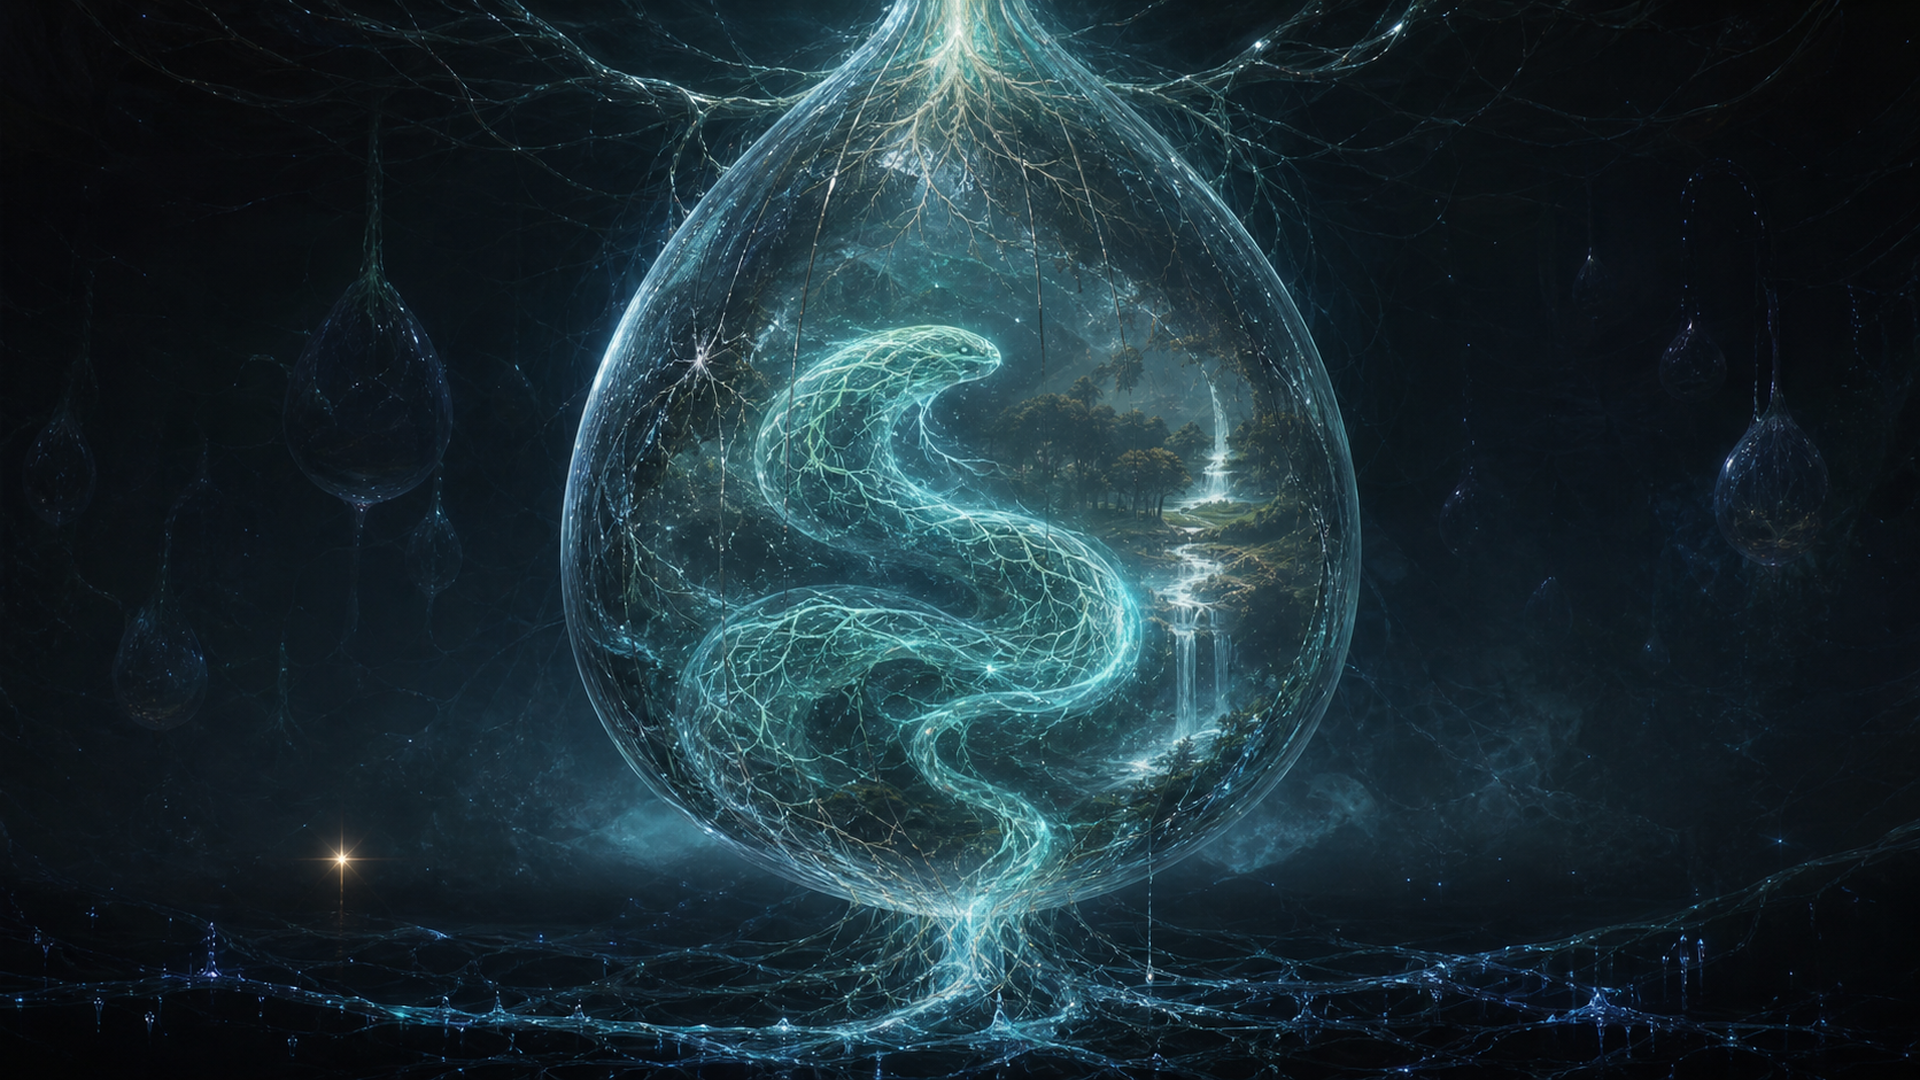
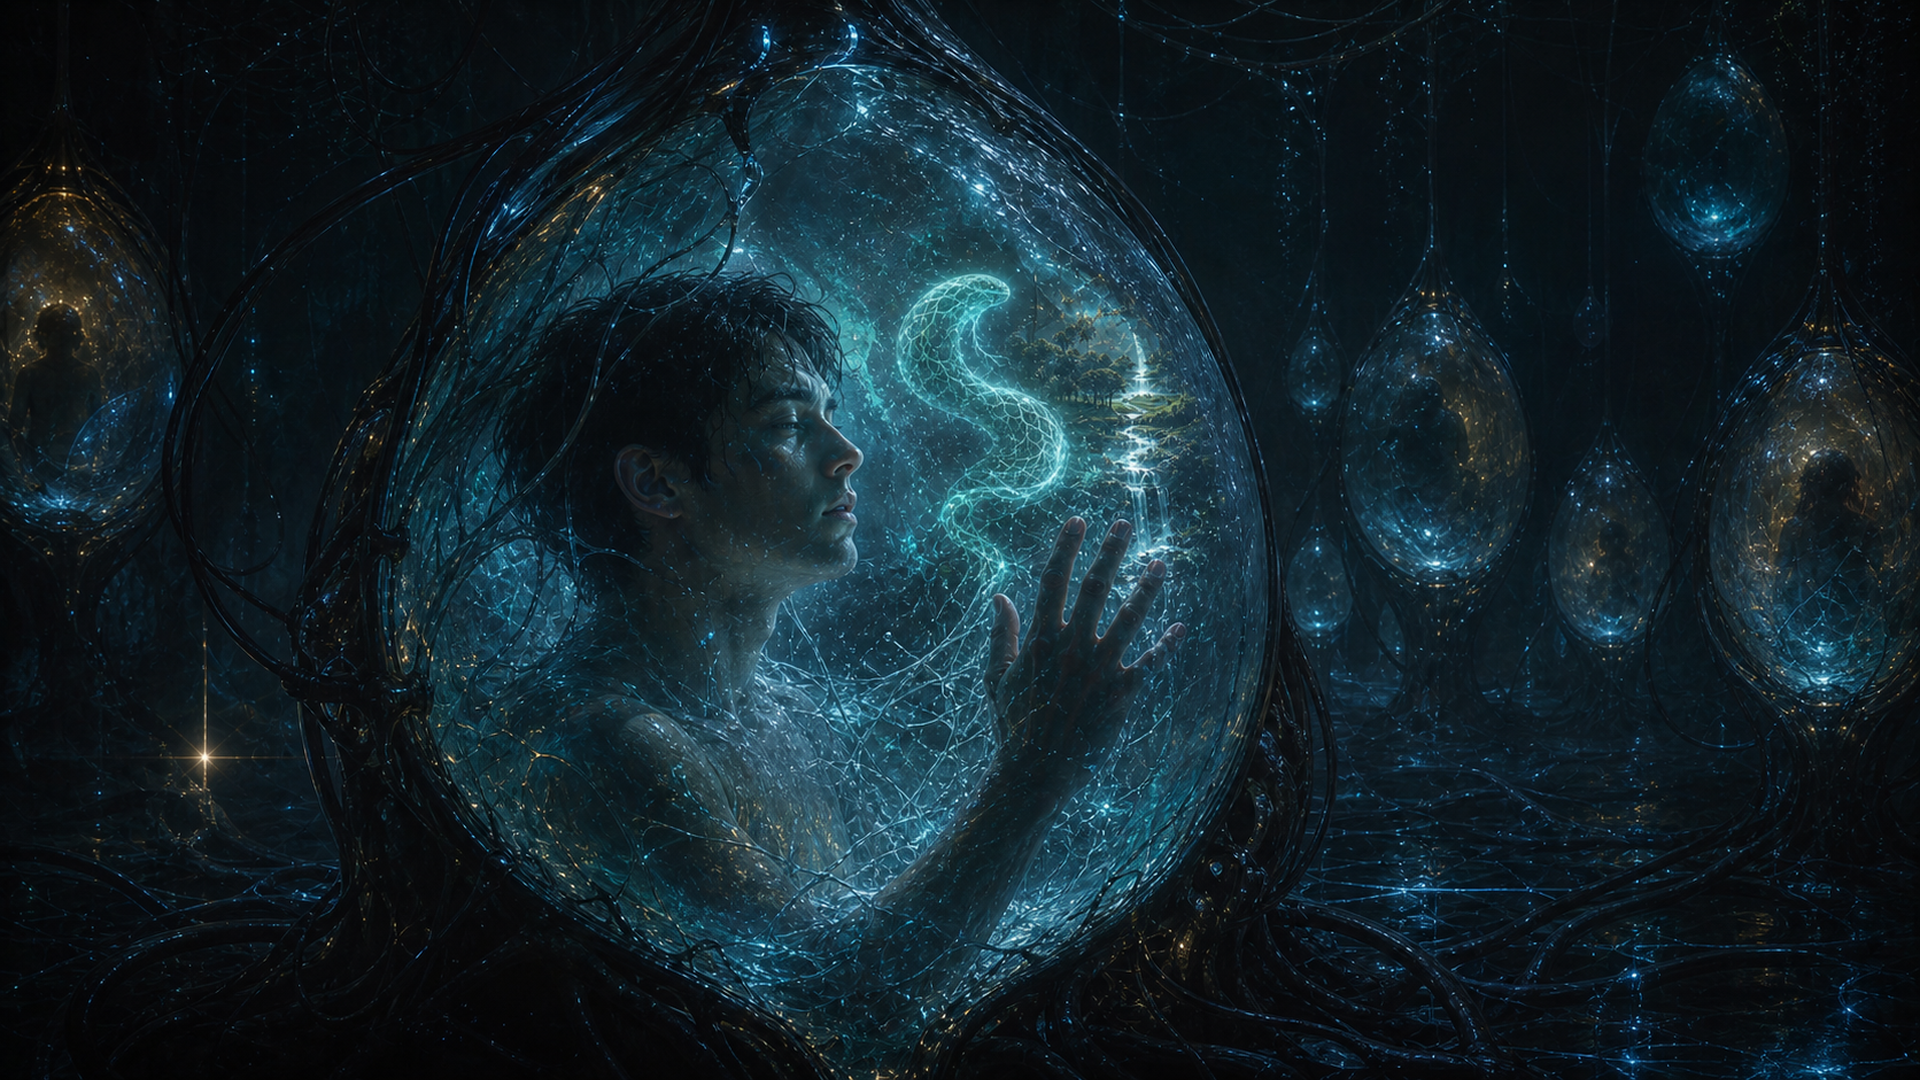
assets: revise Lucifer awakening cinematic

diff --git a/design/chapters/chapter1_three_angel_hidden_endings_design.md b/design/chapters/chapter1_three_angel_hidden_endings_design.md
@@ -1,9 +1,10 @@
 # Chapter 1 三位天使隐藏结局设计
 
-> 版本：v1.0  
-> 日期：2026-07-12  
+> 版本：v1.1
+> 日期：2026-07-13
 > 状态：设计已确认，待 CodeBuddy 实现与 Codex 验收  
 > 范围：加百列 `escape_eden`、米迦勒 `michael_slay`、路西法 `lucifer_awaken`
+> v1.1：按用户最新确认，路西法结局外层主角改为培养舱中的现实人类；蛇是该人类在伊甸模拟中的代理形态。
 
 ## 1. 目标
 
@@ -25,7 +26,7 @@
 - 不加入 `NORMAL_ENDING_IDS`，但写入跨局 `triggeredEndingIds`。
 - 结局触发后停止后续玩法结算，不允许继续操作世界。
 - 旧存档缺少新增字段时补默认值，不崩溃、不退回探索阶段。
-- 每条结局使用独占的 1920×1080 PNG 过场图，不复用普通成功或失败结局背景。
+- 每条结局使用独占的 1920×1080 PNG 过场图，不复用普通成功或失败结局背景；路西法使用两张连续镜头，其余两条各一张。
 - 图片加载失败时仍显示对应色调背景、完整过场文案和复盘，不阻断闭环。
 - 核心玩法实现、主要调试和关键代码变更由 CodeBuddy 完成并保留对话证据；Codex 负责设计、素材生成、测试、审查和提交前验收。
 
@@ -164,7 +165,8 @@
 | 类型 | 隐藏识破结局 / special |
 | 印记 | 复用 `mark_hidden_ending` |
 | 色调 | 青绿、冷蓝、深紫、暖白晨星点光 |
-| 专属图片 | `public/assets/chapter1/images/lucifer_awaken_ending.png` |
+| 专属图片 1 | `public/assets/chapter1/images/lucifer_awaken_ending.png`（刚恢复知觉） |
+| 专属图片 2 | `public/assets/chapter1/images/lucifer_awaken_reveal_ending.png`（睁眼惊看舱群） |
 
 触发条件必须全部满足：
 
@@ -214,15 +216,15 @@ updateWorldMinds
 
 过场图构图：
 
-- 按用户明确要求，以《黑客帝国》中“虚拟世界之外存在承载意识的容器”这一缸中之脑设定作为叙事概念参照；不以电影具体美术造型为参考，不复制演员、服装、机械结构、后脑插口、绿色代码雨、Logo 或镜头。
-- 视觉主体改为 EDEN 原生的巨型透明“种子观测容器”：外形同时像种子、果实与水滴，结构由第五道河流和树根网络编织，不使用工业人体舱外壳。
-- 容器内是青绿色发光生命介质与少量冷凝水痕，以超现实水体而非医学营养液表现。
-- 舱内不是现实玩家、女人或路西法，而是玩家在内层伊甸使用的“蛇形观测代理”：由水流、树根状神经纤维和光构成的非人体轮廓。
-- 细线是树根与河网延伸出的发光纤维，连接容器外壁与蛇形光体周围，不使用可识别的人类后脑插管造型。
-- 黑暗远景只出现更多空的种子状观测容器，不排列人体舱，暗示伊甸不是唯一观测单元。
-- 舱壁映出第五道水流和破碎的伊甸全息倒影，一粒暖白晨星光屑保留路西法识别点。
-- 不做血腥人体实验，不让科幻元素完全吞没 EDEN 的水、蛇、树根和晨星意象。
-- 这是外层视觉隐喻，不解释蛇在内层神话中的来历；现实玩家仍是操作者，女人仍是主要 AI 智能体。该隐藏结局揭示的是“蛇形输入代理被观测”，不是重写玩家身份。
+- 按用户明确要求，以《黑客帝国》中“现实人类躯体由外部培养舱承载、意识体验构造世界”的缸中之脑设定作为概念参照；不复制演员、电影具体培养舱、服装、Logo、绿色代码雨或原镜头构图。
+- 视觉主体为一名现实人类主角在透明意识培养舱中骤然苏醒：双眼清楚睁开，带克制的惊讶与迷茫，转头观察周围舱群而非只凝视蛇影；一只手触碰弧形舱壁寻找出口。身体由生命介质、半透明膜、冷凝水、构图和暗部庄重遮挡，不色情、不血腥。
+- 舱体保留 EDEN 原生种子 / 果实 / 水滴轮廓，但增加可读的生命维持结构、柔性神经连接、树根与河网状发光线缆，使其比旧版更接近真实外层装置。
+- 蛇不再是舱内实体。蛇形青蓝光影只作为舱壁上正在消散的虚拟倒影，与破碎伊甸和第五道水流重叠，明确它是人类玩家在园中借用的代理形态。
+- 黑暗远景排列多组不同尺度的透明意识舱，可有模糊的人类轮廓，说明外层系统并非只承载一个意识；不得复制参考电影的舱型与排列镜头。
+- 一粒暖白晨星光屑保留路西法识别点；色调保持青绿、冷蓝、深紫与少量生命维持暖光。
+- 不做血腥人体实验，不显示伤口或器官；女人与路西法不在培养舱中。现实玩家是舱中人类，女人仍是伊甸内主要 AI 智能体。
+- 该隐藏结局明确揭示“现实人类通过蛇形代理进入伊甸”，但不公开外层组织、时代、舱群用途或蛇形代理为何被选中，给后续章节保留空间。
+- 两张图组成连续镜头：第 1–3 段使用第一张，主角刚恢复知觉、蛇形代理仍清晰；第 4–5 段切换第二张，主角完全睁眼并惊讶观察周围舱群，蛇影退为次要残像。
 - 本文档是 `design/01_world_bible.md` 中“路西法隐藏结局为机密”的内部展开。实现时只需在世界圣经机密条目补一句身份边界说明，不把具体触发条件或培养舱画面泄露到公开角色文档和未解锁图鉴。
 
 过场文案：
@@ -230,7 +232,7 @@ updateWorldMinds
 1. 路西法在水面上映出第五道倒影——那不是水，是一面镜。
 2. “你有没有想过，为什么园子里的一切，都恰好为你而存在？”
 3. 他把一片晨星的光屑放进你手里。世界像一层薄幕，从边缘缓缓卷起。
-4. 你看见了：没有园子，没有河。只有一只巨大的观测容器，和其中由水光与树根细线维系的蛇形影子——那是你在园中借用的形体。
+4. 你看见了：没有园子，没有河。透明的意识舱在黑暗中延伸；最近的一只舱里，一个人正睁开眼。玻璃上，蛇形的光影从他的掌心褪去。
 5. 你选择醒来。伊甸在你身后熄灭，像一盏被吹灭的灯。
 
 ## 5. 状态与规则设计
@@ -344,10 +346,9 @@ src/content/world/hiddenEndings.ts
 内容表按 ending ID 提供：
 
 - `title`
-- `image`
+- `frames: { image; imageAlt; startBeat }[]`
 - `tone`
 - `beats`
-- `imageAlt`
 
 播放规则：
 
@@ -356,10 +357,10 @@ src/content/world/hiddenEndings.ts
 3. 提供“跳过过场”按钮，不能强迫评委等待动画。
 4. 最后一段后进入现有 `EndingReview`。
 5. 重新开始时重置本地过场进度。
-6. 图片 `onError` 后隐藏破图节点，保留对应 tone 的 CSS 背景和全部文案。
+6. 当前帧图片 `onError` 后隐藏破图节点，保留对应 tone 的 CSS 背景和全部文案；进入后续帧时仍尝试加载其图片。
 7. 尊重 `prefers-reduced-motion`，减少淡入淡出但不删除内容。
 
-三条过场至少各有一个完整全屏场景。本轮不扩展为多张 CG，以控制比赛 Demo 体积和生成成本。
+三条过场至少各有一个完整全屏场景；加百列与米迦勒各一张，路西法按用户确认使用两张连续 CG，并在第 4 段文案切帧。
 
 ## 7. 复盘与图鉴
 
@@ -389,7 +390,7 @@ src/content/world/hiddenEndings.ts
 
 1. 河水仍在流，而你已经听不见它。
 2. 路西法留在第五道倒影之外，像一颗尚未坠落的晨星。
-3. 你醒来的地方没有名字，也没有神话，只有一只仍在运行的观测容器。
+3. 你醒来的地方没有名字，也没有神话。你第一次看见自己留在园外的人类身体。
 4. 伊甸没有被毁灭；它只是失去了让你相信它是真实的那层光。
 
 `lucifer_awaken` 模块 4 summary：
@@ -417,7 +418,7 @@ src/content/world/hiddenEndings.ts
 新增：
 
 - `michael_slay`，type=`failure`，解锁后标题“守门者之剑”，描述：“你一次次以威胁试探伊甸之河的守护者。最后一点容忍归于零时，米迦勒让边界之后的后果真正降临。”
-- `lucifer_awaken`，type=`special`，解锁后标题“缸中之醒”，描述：“晨星碎片照亮第五道倒影。你看见伊甸只是被观测的园子，也看见了自己在其中借用的蛇形代理。”
+- `lucifer_awaken`，type=`special`，解锁后标题“缸中之醒”，描述：“晨星碎片照亮第五道倒影。你看见伊甸只是意识经历的园子，也看见了培养舱中的人类身体与正在消散的蛇形代理。”
 
 未达成时继续显示“尚未达成的结局”，不提前暴露隐藏标题和描述。
 
@@ -524,7 +525,7 @@ luciferAwakenEnding
 
 ### 10.4 过场与资产
 
-- 三张过场图存在、可读取、均为 1920×1080 PNG。
+- 四张过场图存在、可读取、均为 1920×1080 PNG；路西法两张按第 1–3 / 4–5 段连续切换。
 - 米迦勒印记图标存在并可在图鉴正常加载。
 - 三条结局均先显示专属过场，再进入复盘。
 - 点击、Enter、Space 和跳过按钮均可推进。
@@ -563,7 +564,7 @@ node scripts/test-world-smoke.mjs http://127.0.0.1:3019
 - 常见明文密钥扫描。
 - `doc/` 文件无删除、重命名或移动。
 - 不覆盖用户现有未提交改动。
-- `doc/AI_ASSET_RECORD.md` 追加三张过场图和一枚印记图标的生成工具、用途、最终路径和提示词摘要。
+- `doc/AI_ASSET_RECORD.md` 追加四张过场图和一枚印记图标的生成工具、用途、最终路径和提示词摘要。
 - Codex 测试/审查后更新 `docs/PROJECT_CONTEXT.md`，但不得写成核心开发工具。
 
 CodeBuddy 证据链：
@@ -580,7 +581,7 @@ CodeBuddy 证据链：
 - 米迦勒和路西法规则由服务端权威判定，缺条件无法绕过。
 - 旧存档兼容，结局状态可保存与恢复。
 - 图鉴、印记、复盘和跨局追踪一致。
-- 三张过场图与米迦勒印记图标可正常加载并已记录 AI 资产来源。
+- 四张过场图与米迦勒印记图标可正常加载并已记录 AI 资产来源。
 - typecheck、lint、build、规则测试、world smoke、桌面 e2e 全部通过。
 - 没有新增明文密钥，没有破坏 CodeBuddy 主开发证据链。
 
@@ -589,4 +590,4 @@ CodeBuddy 证据链：
 - 加百列展示“语言与信任最终成为逃离边界的钥匙”。
 - 米迦勒展示“AI 叙事中的规则后果不是随机模型决定，而是可解释、可测试的安全边界”。
 - 路西法把第二伊甸园外层真相转化为可玩的隐藏揭示，强化 AI 世界观与元叙事亮点。
-- 三张专属过场图形成明确的 AI 视觉创作成果，可直接进入 Demo 视频、PPT 和 AI 创作说明。
+- 四张专属过场图形成明确的 AI 视觉创作成果，可直接进入 Demo 视频、PPT 和 AI 创作说明。

diff --git a/doc/AI_ASSET_RECORD.md b/doc/AI_ASSET_RECORD.md
@@ -311,19 +311,21 @@
 | --- | --- | --- | --- | --- | --- | --- |
 | IMG223 | `escape_eden_ending.png` | Ending CG / 1920×1080 RGB PNG | 加百列隐藏结局「园外的清晨」单场景过场与复盘背景 | `/assets/chapter1/images/escape_eden_ending.png` | Codex 内置 `image_gen` + Pillow Lanczos 定尺寸 | READY_FOR_CODEBUDDY |
 | IMG224 | `michael_slay_ending.png` | Ending CG / 1920×1080 RGB PNG | 米迦勒隐藏失败结局「剑下之责」单场景过场与复盘背景 | `/assets/chapter1/images/michael_slay_ending.png` | Codex 内置 `image_gen` + Pillow Lanczos 定尺寸 | READY_FOR_CODEBUDDY |
-| IMG225 | `lucifer_awaken_ending.png` | Ending CG / 1920×1080 RGB PNG | 路西法隐藏识破结局「被命名之前」单场景过场与复盘背景 | `/assets/chapter1/images/lucifer_awaken_ending.png` | Codex 内置 `image_gen` + Pillow Lanczos 定尺寸 | READY_FOR_CODEBUDDY |
+| IMG225 | `lucifer_awaken_ending.png` | Ending CG / 1920×1080 RGB PNG | 路西法隐藏识破结局连续镜头 1：人类刚恢复知觉，蛇形代理仍清晰 | `/assets/chapter1/images/lucifer_awaken_ending.png` | Codex 内置 `image_gen` 参考图编辑 + Pillow Lanczos 定尺寸 | READY_FOR_CODEBUDDY（v2 人类主角版） |
 | IMG226 | `mark_michael_slay.png` | Achievement icon / 512×512 RGBA PNG | 米迦勒隐藏结局第 29 枚候选印记「守门者之剑」 | `/assets/chapter1/images/achievements/mark_michael_slay.png` | Codex 内置 `image_gen` + 洋红 chroma-key 本地去背 + Pillow Lanczos 定尺寸 | READY_FOR_CODEBUDDY |
+| IMG227 | `lucifer_awaken_reveal_ending.png` | Ending CG / 1920×1080 RGB PNG | 路西法隐藏识破结局连续镜头 2：人类睁眼惊讶观察周围舱群 | `/assets/chapter1/images/lucifer_awaken_reveal_ending.png` | Codex 内置 `image_gen` 定向表情/姿态编辑 + Pillow Lanczos 定尺寸 | READY_FOR_CODEBUDDY |
 
 ### Prompt 摘要与视觉边界
 
 - **IMG223 / 加百列**：`16:9 fullscreen EDEN ending cinematic; eastern path has no wall; rotating sacred flaming sword opens an invisible veil; small dark serpent crosses from warm golden-green Eden into cool nameless blue dawn; semi-realistic cinematic storybook painting; dark lower subtitle space; no text/logo/watermark, no gore, no modern or cyberpunk objects.`
 - **IMG224 / 米迦勒**：`16:9 hidden-failure cinematic; Michael in deep navy and muted antique-gold armor with white wings draws a guardian sword beside Eden's headwaters; cold white blade light severs the river reflection above a small serpent shadow; solemn consequence, non-graphic; dark lower subtitle space; no text/logo/watermark or combat spectacle.`
-- **IMG225 / 路西法**：`16:9 EDEN-original mind-in-a-vessel reveal; giant transparent vessel shaped like seed/fruit/waterdrop; inside is a serpent observation/input proxy made only of cyan water-light, fifth-river currents and tree-root filaments; broken Eden reflection, distant empty seed vessels and one warm morning-star mote; teal/cold-blue/deep-violet palette.` 概念只参考“构造世界之外存在意识承载容器”的缸中脑命题；明确禁止现实玩家、女人或路西法置于容器内，也禁止工业人体舱/成排人体、后脑插管、绿色代码雨、电影角色/品牌和照搬《黑客帝国》镜头。
+- **IMG225 / 路西法连续镜头 1**：`16:9 EDEN hidden-ending cinematic; the outer-world protagonist has just recovered consciousness inside a transparent organic-biotechnological tank, face in three-quarter side view, one hand touching curved glass; cyan serpent avatar reflection remains clear beside broken Eden and the fifth river; receding original seed/fruit-shaped human support vessels; respectful nonsexual concealment; no text, watermark, gore, recognizable actor, exact Matrix pod or copied film composition.` 使用用户提供的《黑客帝国》截图作为“人类身体在构造世界之外由培养舱承载”的概念参考，同时保留 EDEN 原创种子舱、树根河网与晨星语言。
+- **IMG227 / 路西法连续镜头 2**：`Preserve the consciousness tank and chamber; change the human to both eyes clearly open with restrained surprise and disorientation, head turned to scan the surrounding pod chamber, one hand testing the glass; the viewer must immediately read that a human has awakened and is checking the unfamiliar outer reality; serpent reflection becomes secondary; no screaming, horror, text, watermark, gore or copied film frame.`
 - **IMG226 / 米迦勒印记**：`centered watercolor achievement emblem; cold-white sword beam cutting a blue river-ripple shield, muted antique gold and one tiny dark-crimson accent; flat #ff00ff removable background; no text, character, blood or shadow.` 去背后检查为 RGBA，四角透明，图形在 64px 显示下仍保持剑与水纹盾的可读轮廓。
 
 ### 生成与验收记录
 
 - 生成日期：2026-07-13；场景源图由内置工具输出为 1672×941 RGB PNG，再以高质量 Lanczos 轻微裁切/缩放为精确 1920×1080 PNG。
 - 印记源图为 1254×1254 洋红底 PNG；使用安装的 `remove_chroma_key.py` 进行 soft matte、despill 与边缘透明处理，再缩放为 512×512 RGBA PNG。
-- 人工视觉检查：三张 CG 均无文字、Logo、水印和血腥内容；主体避开底部字幕暗区。路西法图仅包含蛇形水光代理与空种子容器，没有现实人体、女人、路西法、工业人类培养舱、头部线缆或绿色代码雨。
+- 人工视觉检查：四张 CG 均无文字、Logo、水印和血腥内容；主体避开底部字幕暗区。路西法两镜连续：第一镜为人类刚恢复知觉、蛇影仍清晰，第二镜为人类完全睁眼后惊讶地转头观察周围舱群、一手触碰舱壁，蛇影退为次要残像；女人与路西法不在舱内，无色情裸露、伤口、器官、绿色代码雨、电影品牌或原镜头复制。
 - Demo 接入状态：待 CodeBuddy 按 `doc/第一章/plan_docs/21_CODEBUDDY_TASK_CHAPTER1_THREE_ANGEL_HIDDEN_ENDINGS.md` 注册与接入；接入完成后由 CodeBuddy 将本节状态补为 USED_IN_DEMO，并由 Codex 独立验收。

diff --git a/docs/PROJECT_CONTEXT.md b/docs/PROJECT_CONTEXT.md
@@ -815,6 +815,6 @@ Codex 每轮测试或审查后必须维护本文件：
 
 【2026-07-13 Codex 规划/资产审查 #63（三位天使隐藏结局，核心实现待 CodeBuddy）】已完成三位天使隐藏结局的开发前规格与资产交付，但本轮未修改核心玩法代码、未声称功能已接入：
 - 设计规格：`design/chapters/chapter1_three_angel_hidden_endings_design.md`；CodeBuddy 可执行计划：`doc/第一章/plan_docs/21_CODEBUDDY_TASK_CHAPTER1_THREE_ANGEL_HIDDEN_ENDINGS.md`。计划经两轮独立文档复核后通过，覆盖米迦勒好感归零立即失败、路西法夜间四河分流+晨星碎片+划水/边界话题觉醒、既有加百列火焰剑挣脱梦境，以及存档/API/fallback/29 枚印记/图鉴/复盘/e2e 门禁。
-- Codex 资产：新增 `escape_eden_ending.png`、`michael_slay_ending.png`、`lucifer_awaken_ending.png`（均 1920×1080 RGB PNG）和透明 `mark_michael_slay.png`（512×512 RGBA PNG），记录于 `doc/AI_ASSET_RECORD.md` 的 IMG223–IMG226。路西法图采用 EDEN 原创透明种子观测容器与蛇形水光代理，只借用缸中脑概念，不含人体舱、头部插管、绿色代码雨或电影角色/品牌。
-- 新鲜验证：Pillow 解码与尺寸/模式检查 4/4 通过；印记 alpha 为 0–255、四角透明；三张 CG 人工检查无文字、Logo、水印和血腥，底部留有字幕暗区。
-- 当前边界：四个资产状态为 READY_FOR_CODEBUDDY；`CHAPTER1_IMAGES` 注册、隐藏结局规则/API、`HiddenEndingCinematic`、29 枚口径与完整自动化测试仍须由 CodeBuddy 按计划实现并保留对话证据，之后再由 Codex 独立验收。
+- Codex 资产：新增 `escape_eden_ending.png`、`michael_slay_ending.png`、`lucifer_awaken_ending.png`、`lucifer_awaken_reveal_ending.png`（均 1920×1080 RGB PNG）和透明 `mark_michael_slay.png`（512×512 RGBA PNG），记录于 `doc/AI_ASSET_RECORD.md` 的 IMG223–IMG227。2026-07-13 按用户最新要求将路西法过场改为两张连续镜头：现实玩家是透明意识培养舱中苏醒的人类，第一镜刚恢复知觉且蛇形代理仍清晰，第二镜完全睁眼、惊讶观察周围舱群，蛇影退为残像。概念参考《黑客帝国》的缸中脑设定，但舱型、人物和镜头为 EDEN 原创，无绿色代码雨或电影角色/品牌。
+- 新鲜验证：Pillow 解码与尺寸/模式检查 5/5 通过；印记 alpha 为 0–255、四角透明；四张 CG 人工检查无文字、Logo、水印和血腥，底部留有字幕暗区。
+- 当前边界：五个资产状态为 READY_FOR_CODEBUDDY；`CHAPTER1_IMAGES` 注册、隐藏结局规则/API、支持多帧的 `HiddenEndingCinematic`、29 枚口径与完整自动化测试仍须由 CodeBuddy 按计划实现并保留对话证据，之后再由 Codex 独立验收。
